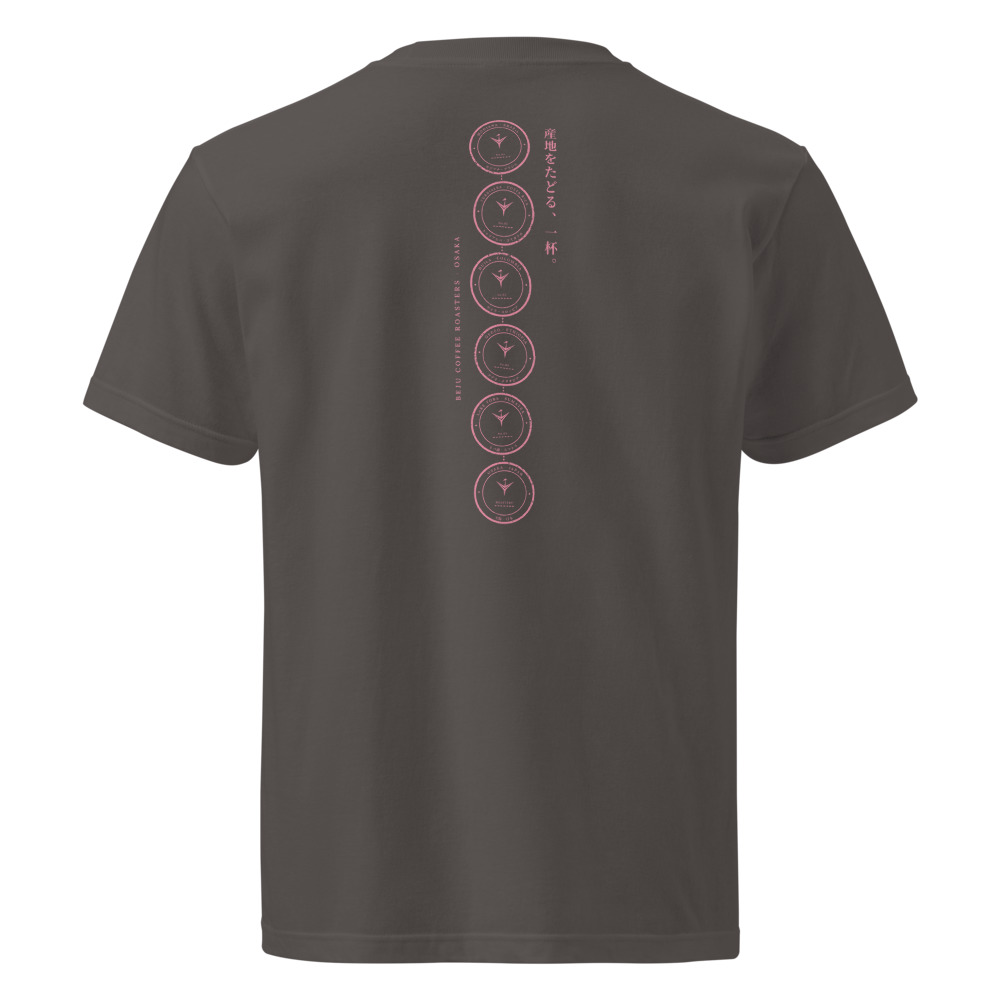
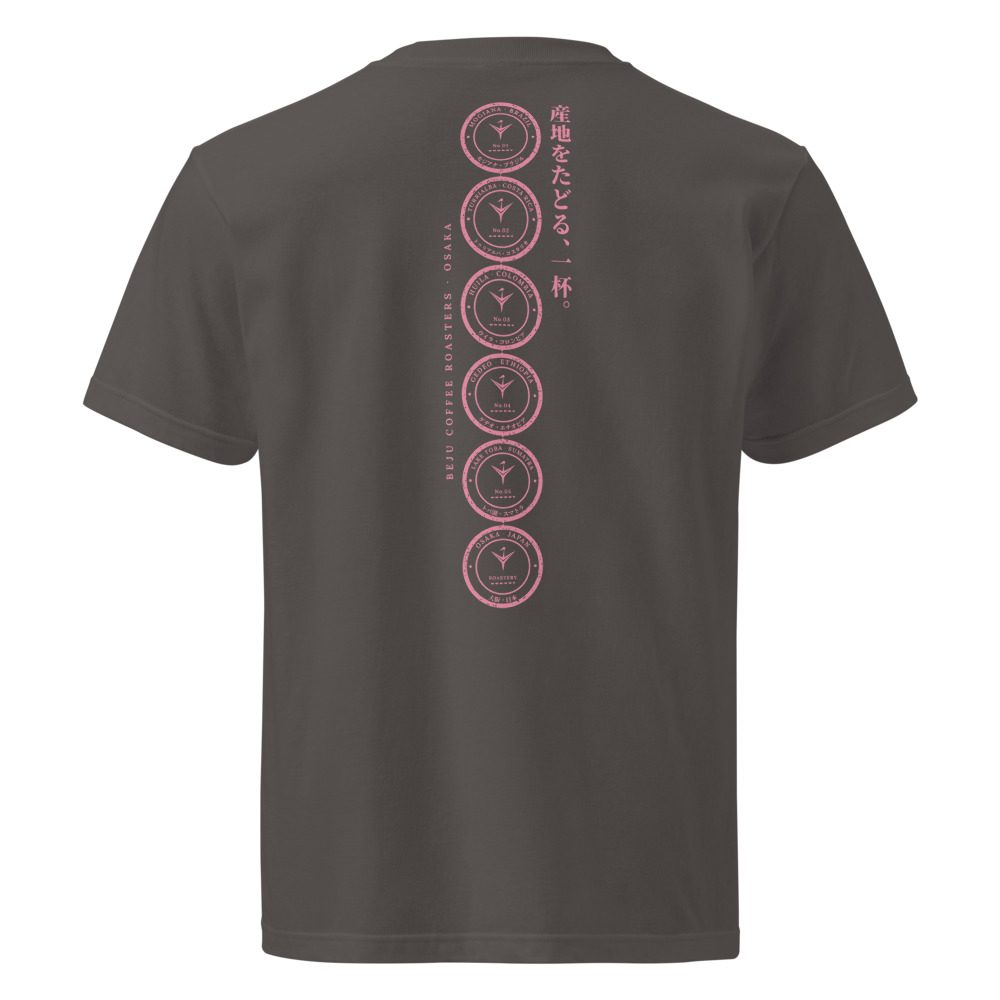
Shop: new back photos for the Passport Tee
Claude-Session: https://claude.ai/code/session_01DATZ3e2wnTa2q48YzpDCKH

Changed region(s): [[0.434, 0.093, 0.589, 0.62]]

diff --git a/beju-site/ja/shop/index.html b/beju-site/ja/shop/index.html
@@ -43,7 +43,7 @@
 <section class="view" id="view-shop">
   <div class="wrap">
     <div class="view-head"><h1>焙煎したてのコーヒー</h1><p>挽き方を選び、1回のみまたは定期便でご注文ください。コーヒーは大阪で焙煎します。価格は1袋あたり(ハウスブレンド250g、シングルオリジン200g)です。</p></div>
-    <div id="shopProducts"><figure class="sphoto banner"><img src="/images/photos/range-sm.webp?v=6d418b1b" srcset="/images/photos/range-sm.webp?v=6d418b1b 800w, /images/photos/range-lg.webp?v=44290ed9 1376w" sizes="(max-width: 1100px) 100vw, 1100px" width="1376" height="768" alt="棚に並んだ4種類のシングルオリジン: コロンビア ピンクウイスキー、コロンビア ラムバレル、エチオピア イルガチェフェ、スマトラ ストロベリー" loading="lazy" decoding="async"><figcaption>※画像はイメージです。実際のパッケージとは異なる場合があります。</figcaption></figure><div class="pgrid"><article class="pcard" style="--tone:var(--accent)"><div class="pc-media"><img class="bagimg" src="/images/bags/casablanca-front.jpg?v=d92e8cfb" width="300" height="496" alt="カサブランカ ブレンド bag" loading="lazy" decoding="async"><span class="pc-photo" aria-hidden="true"><img src="/images/photos/casablanca-sm.webp?v=4effc384" srcset="/images/photos/casablanca-sm.webp?v=4effc384 600w, /images/photos/casablanca-lg.webp?v=c93d02ac 896w" sizes="(max-width: 700px) 50vw, 300px" width="896" height="1200" alt="" loading="lazy" decoding="async"></span><span class="pc-badge">ハウスブレンド</span></div><div class="pc-body"><h3><a class="plink" href="/ja/shop/casablanca/">カサブランカ ブレンド</a></h3><p class="pc-from"><i class="kd" style="background:var(--c-brazil)"></i><i class="kd" style="background:var(--c-colombia)"></i><i class="kd" style="background:var(--c-costarica)"></i><span>ブラジル · コロンビア · コスタリカ</span></p><p class="pc-notes">ココア<span aria-hidden="true"> · </span>ヘーゼルナッツ<span aria-hidden="true"> · </span>柑橘</p><div class="pc-foot"><p class="pc-price"><span class="mono">¥3,000</span> <small>/ 250 g</small></p><button class="pc-add" type="button" data-quick="casablanca" aria-label="カサブランカ ブレンド をカートに入れる"><span aria-hidden="true">+</span></button></div></div></article><article class="pcard" style="--tone:var(--c-colombia)"><div class="pc-media"><img class="bagimg" src="/images/bags/pinkwhiskey-front.jpg?v=35b7f112" width="300" height="496" alt="コロンビア ピンクウイスキー bag" loading="lazy" decoding="async"><span class="pc-photo" aria-hidden="true"><img src="/images/photos/pinkwhiskey-sm.webp?v=81a39107" srcset="/images/photos/pinkwhiskey-sm.webp?v=81a39107 600w, /images/photos/pinkwhiskey-lg.webp?v=f4f59314 896w" sizes="(max-width: 700px) 50vw, 300px" width="896" height="1200" alt="" loading="lazy" decoding="async"></span><span class="pc-badge">シングルオリジン</span></div><div class="pc-body"><h3><a class="plink" href="/ja/shop/pinkwhiskey/">コロンビア ピンクウイスキー</a></h3><p class="pc-from"><i class="kd" style="background:var(--c-colombia)"></i><span>コロンビア · ナチュラル</span></p><p class="pc-notes">赤りんご<span aria-hidden="true"> · </span>バラ<span aria-hidden="true"> · </span>樽のような甘み</p><div class="pc-foot"><p class="pc-price"><span class="mono">¥3,600</span> <small>/ 200 g</small></p><button class="pc-add" type="button" data-quick="pinkwhiskey" aria-label="コロンビア ピンクウイスキー をカートに入れる"><span aria-hidden="true">+</span></button></div></div></article><article class="pcard" style="--tone:var(--c-rum)"><div class="pc-media"><img class="bagimg" src="/images/bags/rumbarrel-front.jpg?v=64df9a49" width="300" height="496" alt="コロンビア ラムバレル bag" loading="lazy" decoding="async"><span class="pc-photo" aria-hidden="true"><img src="/images/photos/rumbarrel-sm.webp?v=05e584c3" srcset="/images/photos/rumbarrel-sm.webp?v=05e584c3 600w, /images/photos/rumbarrel-lg.webp?v=a1dbfabd 896w" sizes="(max-width: 700px) 50vw, 300px" width="896" height="1200" alt="" loading="lazy" decoding="async"></span><span class="pc-badge">シングルオリジン</span></div><div class="pc-body"><h3><a class="plink" href="/ja/shop/rumbarrel/">コロンビア ラムバレル</a></h3><p class="pc-from"><i class="kd" style="background:var(--c-colombia)"></i><span>コロンビア · ウォッシュド</span></p><p class="pc-notes">ダークラム<span aria-hidden="true"> · </span>黒糖<span aria-hidden="true"> · </span>カカオ</p><div class="pc-foot"><p class="pc-price"><span class="mono">¥3,600</span> <small>/ 200 g</small></p><button class="pc-add" type="button" data-quick="rumbarrel" aria-label="コロンビア ラムバレル をカートに入れる"><span aria-hidden="true">+</span></button></div></div></article><article class="pcard" style="--tone:var(--c-ethiopia)"><div class="pc-media"><img class="bagimg" src="/images/bags/yirgacheffe-front.jpg?v=be896bd2" width="300" height="496" alt="エチオピア イルガチェフェ bag" loading="lazy" decoding="async"><span class="pc-photo" aria-hidden="true"><img src="/images/photos/yirgacheffe-sm.webp?v=811ab5fa" srcset="/images/photos/yirgacheffe-sm.webp?v=811ab5fa 600w, /images/photos/yirgacheffe-lg.webp?v=60a03ac5 896w" sizes="(max-width: 700px) 50vw, 300px" width="896" height="1200" alt="" loading="lazy" decoding="async"></span><span class="pc-badge">シングルオリジン</span></div><div class="pc-body"><h3><a class="plink" href="/ja/shop/yirgacheffe/">エチオピア イルガチェフェ</a></h3><p class="pc-from"><i class="kd" style="background:var(--c-ethiopia)"></i><span>エチオピア · ウォッシュド</span></p><p class="pc-notes">ジャスミン<span aria-hidden="true"> · </span>ベルガモット<span aria-hidden="true"> · </span>レモン</p><div class="pc-foot"><p class="pc-price"><span class="mono">¥2,800</span> <small>/ 200 g</small></p><button class="pc-add" type="button" data-quick="yirgacheffe" aria-label="エチオピア イルガチェフェ をカートに入れる"><span aria-hidden="true">+</span></button></div></div></article><article class="pcard" style="--tone:var(--c-indonesia)"><div class="pc-media"><img class="bagimg" src="/images/bags/strawberry-front.jpg?v=70fcd63c" width="300" height="496" alt="スマトラ ストロベリー bag" loading="lazy" decoding="async"><span class="pc-photo" aria-hidden="true"><img src="/images/photos/strawberry-sm.webp?v=ea992a66" srcset="/images/photos/strawberry-sm.webp?v=ea992a66 600w, /images/photos/strawberry-lg.webp?v=76373696 896w" sizes="(max-width: 700px) 50vw, 300px" width="896" height="1200" alt="" loading="lazy" decoding="async"></span><span class="pc-badge">シングルオリジン</span></div><div class="pc-body"><h3><a class="plink" href="/ja/shop/strawberry/">スマトラ ストロベリー</a></h3><p class="pc-from"><i class="kd" style="background:var(--c-indonesia)"></i><span>インドネシア · ストロベリー コファーメント</span></p><p class="pc-notes">いちご<span aria-hidden="true"> · </span>赤いベリー<span aria-hidden="true"> · </span>甘い余韻</p><div class="pc-foot"><p class="pc-price"><span class="mono">¥3,200</span> <small>/ 200 g</small></p><button class="pc-add" type="button" data-quick="strawberry" aria-label="スマトラ ストロベリー をカートに入れる"><span aria-hidden="true">+</span></button></div></div></article></div><h2 class="shop-h" id="merch">グッズ</h2><p class="sub">ベージュ パスポートTシャツ。左胸には、鶴のマークと縦書きの「ベージュ コーヒー ロースターズ」。背中には、モジアナ(ブラジル)、トゥリアルバ(コスタリカ)、ウイラ(コロンビア)、ゲデオ(エチオピア)、トバ湖(スマトラ)、そして大阪の6つの産地スタンプを縦に並べ、「産地をたどる、一杯。」の一文を添えました。5.6オンスのヘビーウェイトコットンを使用しています。</p><div class="mgrid"><article class="mcard" id="m-tee-natural"><div class="mc-media"><img src="/images/merch/passport-tee-natural-front.jpg?v=2121e7a7" width="1000" height="1000" alt="ベージュ パスポートTシャツ(ナチュラル) 前面" loading="lazy" decoding="async"><img src="/images/merch/passport-tee-natural-back.jpg?v=3e0f749f" width="1000" height="1000" alt="ベージュ パスポートTシャツ(ナチュラル) 背面" loading="lazy" decoding="async"></div><div class="mc-body"><h3>ベージュ パスポートTシャツ(ナチュラル)</h3><p class="mc-price"><span class="mono">¥5,500</span> <small>税込・送料込み</small></p><p class="mc-desc">ナチュラル(生成り)のボディに、グリーンのプリント。</p><div class="opts"><div class="field"><label for="tee-natural-size">サイズ</label><select id="tee-natural-size"><option value="">サイズを選択</option><option value="S">S</option><option value="M">M</option><option value="L">L</option><option value="XL">XL</option><option value="2XL">2XL</option><option value="3XL">3XL</option></select><small class="mc-size">日本のユニセックスサイズです。</small></div><div class="buyrow"><div class="qty"><button type="button" data-q="-1" aria-label="減らす">−</button><output id="tee-natural-qty">1</output><button type="button" data-q="1" aria-label="増やす">+</button></div><button class="btn primary" type="button" data-add-merch="tee-natural">カートに入れる</button></div></div></div></article><article class="mcard" id="m-tee-charcoal"><div class="mc-media"><img src="/images/merch/passport-tee-charcoal-front.jpg?v=724ee2fa" width="1000" height="1000" alt="ベージュ パスポートTシャツ(チャコール) 前面" loading="lazy" decoding="async"><img src="/images/merch/passport-tee-charcoal-back.jpg?v=9c4f4beb" width="1000" height="1000" alt="ベージュ パスポートTシャツ(チャコール) 背面" loading="lazy" decoding="async"></div><div class="mc-body"><h3>ベージュ パスポートTシャツ(チャコール)</h3><p class="mc-price"><span class="mono">¥5,500</span> <small>税込・送料込み</small></p><p class="mc-desc">チャコール(温かみのあるダークグレー)のボディに、ライトピンクのプリント。</p><div class="opts"><div class="field"><label for="tee-charcoal-size">サイズ</label><select id="tee-charcoal-size"><option value="">サイズを選択</option><option value="S">S</option><option value="M">M</option><option value="L">L</option><option value="XL">XL</option><option value="2XL">2XL</option><option value="3XL">3XL</option></select><small class="mc-size">日本のユニセックスサイズです。</small></div><div class="buyrow"><div class="qty"><button type="button" data-q="-1" aria-label="減らす">−</button><output id="tee-charcoal-qty">1</output><button type="button" data-q="1" aria-label="増やす">+</button></div><button class="btn primary" type="button" data-add-merch="tee-charcoal">カートに入れる</button></div></div></div></article></div><ul class="mnotes"><li>ご注文をいただいてから日本国内でプリントする受注生産品です。コーヒーとは別便でお届けし、送料は商品価格に含まれています。</li><li>受注生産のため、お客様のご都合による返品・交換はお受けできません。不良品やプリントミスがあった場合は、新しいものとお取り替えいたします。</li><li>プリントと発送のため、お名前・お届け先住所・電話番号・メールアドレスを、プリントと発送を行うPrintful社に提供します。詳しくは<a href="/privacy/">プライバシーについて(英語)</a>をご覧ください。</li></ul></div>
+    <div id="shopProducts"><figure class="sphoto banner"><img src="/images/photos/range-sm.webp?v=6d418b1b" srcset="/images/photos/range-sm.webp?v=6d418b1b 800w, /images/photos/range-lg.webp?v=44290ed9 1376w" sizes="(max-width: 1100px) 100vw, 1100px" width="1376" height="768" alt="棚に並んだ4種類のシングルオリジン: コロンビア ピンクウイスキー、コロンビア ラムバレル、エチオピア イルガチェフェ、スマトラ ストロベリー" loading="lazy" decoding="async"><figcaption>※画像はイメージです。実際のパッケージとは異なる場合があります。</figcaption></figure><div class="pgrid"><article class="pcard" style="--tone:var(--accent)"><div class="pc-media"><img class="bagimg" src="/images/bags/casablanca-front.jpg?v=d92e8cfb" width="300" height="496" alt="カサブランカ ブレンド bag" loading="lazy" decoding="async"><span class="pc-photo" aria-hidden="true"><img src="/images/photos/casablanca-sm.webp?v=4effc384" srcset="/images/photos/casablanca-sm.webp?v=4effc384 600w, /images/photos/casablanca-lg.webp?v=c93d02ac 896w" sizes="(max-width: 700px) 50vw, 300px" width="896" height="1200" alt="" loading="lazy" decoding="async"></span><span class="pc-badge">ハウスブレンド</span></div><div class="pc-body"><h3><a class="plink" href="/ja/shop/casablanca/">カサブランカ ブレンド</a></h3><p class="pc-from"><i class="kd" style="background:var(--c-brazil)"></i><i class="kd" style="background:var(--c-colombia)"></i><i class="kd" style="background:var(--c-costarica)"></i><span>ブラジル · コロンビア · コスタリカ</span></p><p class="pc-notes">ココア<span aria-hidden="true"> · </span>ヘーゼルナッツ<span aria-hidden="true"> · </span>柑橘</p><div class="pc-foot"><p class="pc-price"><span class="mono">¥3,000</span> <small>/ 250 g</small></p><button class="pc-add" type="button" data-quick="casablanca" aria-label="カサブランカ ブレンド をカートに入れる"><span aria-hidden="true">+</span></button></div></div></article><article class="pcard" style="--tone:var(--c-colombia)"><div class="pc-media"><img class="bagimg" src="/images/bags/pinkwhiskey-front.jpg?v=35b7f112" width="300" height="496" alt="コロンビア ピンクウイスキー bag" loading="lazy" decoding="async"><span class="pc-photo" aria-hidden="true"><img src="/images/photos/pinkwhiskey-sm.webp?v=81a39107" srcset="/images/photos/pinkwhiskey-sm.webp?v=81a39107 600w, /images/photos/pinkwhiskey-lg.webp?v=f4f59314 896w" sizes="(max-width: 700px) 50vw, 300px" width="896" height="1200" alt="" loading="lazy" decoding="async"></span><span class="pc-badge">シングルオリジン</span></div><div class="pc-body"><h3><a class="plink" href="/ja/shop/pinkwhiskey/">コロンビア ピンクウイスキー</a></h3><p class="pc-from"><i class="kd" style="background:var(--c-colombia)"></i><span>コロンビア · ナチュラル</span></p><p class="pc-notes">赤りんご<span aria-hidden="true"> · </span>バラ<span aria-hidden="true"> · </span>樽のような甘み</p><div class="pc-foot"><p class="pc-price"><span class="mono">¥3,600</span> <small>/ 200 g</small></p><button class="pc-add" type="button" data-quick="pinkwhiskey" aria-label="コロンビア ピンクウイスキー をカートに入れる"><span aria-hidden="true">+</span></button></div></div></article><article class="pcard" style="--tone:var(--c-rum)"><div class="pc-media"><img class="bagimg" src="/images/bags/rumbarrel-front.jpg?v=64df9a49" width="300" height="496" alt="コロンビア ラムバレル bag" loading="lazy" decoding="async"><span class="pc-photo" aria-hidden="true"><img src="/images/photos/rumbarrel-sm.webp?v=05e584c3" srcset="/images/photos/rumbarrel-sm.webp?v=05e584c3 600w, /images/photos/rumbarrel-lg.webp?v=a1dbfabd 896w" sizes="(max-width: 700px) 50vw, 300px" width="896" height="1200" alt="" loading="lazy" decoding="async"></span><span class="pc-badge">シングルオリジン</span></div><div class="pc-body"><h3><a class="plink" href="/ja/shop/rumbarrel/">コロンビア ラムバレル</a></h3><p class="pc-from"><i class="kd" style="background:var(--c-colombia)"></i><span>コロンビア · ウォッシュド</span></p><p class="pc-notes">ダークラム<span aria-hidden="true"> · </span>黒糖<span aria-hidden="true"> · </span>カカオ</p><div class="pc-foot"><p class="pc-price"><span class="mono">¥3,600</span> <small>/ 200 g</small></p><button class="pc-add" type="button" data-quick="rumbarrel" aria-label="コロンビア ラムバレル をカートに入れる"><span aria-hidden="true">+</span></button></div></div></article><article class="pcard" style="--tone:var(--c-ethiopia)"><div class="pc-media"><img class="bagimg" src="/images/bags/yirgacheffe-front.jpg?v=be896bd2" width="300" height="496" alt="エチオピア イルガチェフェ bag" loading="lazy" decoding="async"><span class="pc-photo" aria-hidden="true"><img src="/images/photos/yirgacheffe-sm.webp?v=811ab5fa" srcset="/images/photos/yirgacheffe-sm.webp?v=811ab5fa 600w, /images/photos/yirgacheffe-lg.webp?v=60a03ac5 896w" sizes="(max-width: 700px) 50vw, 300px" width="896" height="1200" alt="" loading="lazy" decoding="async"></span><span class="pc-badge">シングルオリジン</span></div><div class="pc-body"><h3><a class="plink" href="/ja/shop/yirgacheffe/">エチオピア イルガチェフェ</a></h3><p class="pc-from"><i class="kd" style="background:var(--c-ethiopia)"></i><span>エチオピア · ウォッシュド</span></p><p class="pc-notes">ジャスミン<span aria-hidden="true"> · </span>ベルガモット<span aria-hidden="true"> · </span>レモン</p><div class="pc-foot"><p class="pc-price"><span class="mono">¥2,800</span> <small>/ 200 g</small></p><button class="pc-add" type="button" data-quick="yirgacheffe" aria-label="エチオピア イルガチェフェ をカートに入れる"><span aria-hidden="true">+</span></button></div></div></article><article class="pcard" style="--tone:var(--c-indonesia)"><div class="pc-media"><img class="bagimg" src="/images/bags/strawberry-front.jpg?v=70fcd63c" width="300" height="496" alt="スマトラ ストロベリー bag" loading="lazy" decoding="async"><span class="pc-photo" aria-hidden="true"><img src="/images/photos/strawberry-sm.webp?v=ea992a66" srcset="/images/photos/strawberry-sm.webp?v=ea992a66 600w, /images/photos/strawberry-lg.webp?v=76373696 896w" sizes="(max-width: 700px) 50vw, 300px" width="896" height="1200" alt="" loading="lazy" decoding="async"></span><span class="pc-badge">シングルオリジン</span></div><div class="pc-body"><h3><a class="plink" href="/ja/shop/strawberry/">スマトラ ストロベリー</a></h3><p class="pc-from"><i class="kd" style="background:var(--c-indonesia)"></i><span>インドネシア · ストロベリー コファーメント</span></p><p class="pc-notes">いちご<span aria-hidden="true"> · </span>赤いベリー<span aria-hidden="true"> · </span>甘い余韻</p><div class="pc-foot"><p class="pc-price"><span class="mono">¥3,200</span> <small>/ 200 g</small></p><button class="pc-add" type="button" data-quick="strawberry" aria-label="スマトラ ストロベリー をカートに入れる"><span aria-hidden="true">+</span></button></div></div></article></div><h2 class="shop-h" id="merch">グッズ</h2><p class="sub">ベージュ パスポートTシャツ。左胸には、鶴のマークと縦書きの「ベージュ コーヒー ロースターズ」。背中には、モジアナ(ブラジル)、トゥリアルバ(コスタリカ)、ウイラ(コロンビア)、ゲデオ(エチオピア)、トバ湖(スマトラ)、そして大阪の6つの産地スタンプを縦に並べ、「産地をたどる、一杯。」の一文を添えました。5.6オンスのヘビーウェイトコットンを使用しています。</p><div class="mgrid"><article class="mcard" id="m-tee-natural"><div class="mc-media"><img src="/images/merch/passport-tee-natural-front.jpg?v=2121e7a7" width="1000" height="1000" alt="ベージュ パスポートTシャツ(ナチュラル) 前面" loading="lazy" decoding="async"><img src="/images/merch/passport-tee-natural-back.jpg?v=88962ae0" width="1000" height="1000" alt="ベージュ パスポートTシャツ(ナチュラル) 背面" loading="lazy" decoding="async"></div><div class="mc-body"><h3>ベージュ パスポートTシャツ(ナチュラル)</h3><p class="mc-price"><span class="mono">¥5,500</span> <small>税込・送料込み</small></p><p class="mc-desc">ナチュラル(生成り)のボディに、グリーンのプリント。</p><div class="opts"><div class="field"><label for="tee-natural-size">サイズ</label><select id="tee-natural-size"><option value="">サイズを選択</option><option value="S">S</option><option value="M">M</option><option value="L">L</option><option value="XL">XL</option><option value="2XL">2XL</option><option value="3XL">3XL</option></select><small class="mc-size">日本のユニセックスサイズです。</small></div><div class="buyrow"><div class="qty"><button type="button" data-q="-1" aria-label="減らす">−</button><output id="tee-natural-qty">1</output><button type="button" data-q="1" aria-label="増やす">+</button></div><button class="btn primary" type="button" data-add-merch="tee-natural">カートに入れる</button></div></div></div></article><article class="mcard" id="m-tee-charcoal"><div class="mc-media"><img src="/images/merch/passport-tee-charcoal-front.jpg?v=724ee2fa" width="1000" height="1000" alt="ベージュ パスポートTシャツ(チャコール) 前面" loading="lazy" decoding="async"><img src="/images/merch/passport-tee-charcoal-back.jpg?v=ab16e4bf" width="1000" height="1000" alt="ベージュ パスポートTシャツ(チャコール) 背面" loading="lazy" decoding="async"></div><div class="mc-body"><h3>ベージュ パスポートTシャツ(チャコール)</h3><p class="mc-price"><span class="mono">¥5,500</span> <small>税込・送料込み</small></p><p class="mc-desc">チャコール(温かみのあるダークグレー)のボディに、ライトピンクのプリント。</p><div class="opts"><div class="field"><label for="tee-charcoal-size">サイズ</label><select id="tee-charcoal-size"><option value="">サイズを選択</option><option value="S">S</option><option value="M">M</option><option value="L">L</option><option value="XL">XL</option><option value="2XL">2XL</option><option value="3XL">3XL</option></select><small class="mc-size">日本のユニセックスサイズです。</small></div><div class="buyrow"><div class="qty"><button type="button" data-q="-1" aria-label="減らす">−</button><output id="tee-charcoal-qty">1</output><button type="button" data-q="1" aria-label="増やす">+</button></div><button class="btn primary" type="button" data-add-merch="tee-charcoal">カートに入れる</button></div></div></div></article></div><ul class="mnotes"><li>ご注文をいただいてから日本国内でプリントする受注生産品です。コーヒーとは別便でお届けし、送料は商品価格に含まれています。</li><li>受注生産のため、お客様のご都合による返品・交換はお受けできません。不良品やプリントミスがあった場合は、新しいものとお取り替えいたします。</li><li>プリントと発送のため、お名前・お届け先住所・電話番号・メールアドレスを、プリントと発送を行うPrintful社に提供します。詳しくは<a href="/privacy/">プライバシーについて(英語)</a>をご覧ください。</li></ul></div>
     <p class="note" style="margin-top:2rem;max-width:44rem">送料とお届け日数は、住所を入力するとチェックアウトで計算されます。</p>
     <div class="crosslinks"><a class="crosslink" href="/ja/origins/"><b>育った場所を見る</b><span>すべての産地を、標高・品種・精製方法とともにマップで</span></a><a class="crosslink" href="/ja/wholesale/"><b>カフェを運営していますか？</b><span>オリジナルブレンドとバリスタトレーニング</span></a></div>
   </div>
@@ -89,7 +89,7 @@
 <aside id="drawer" role="dialog" aria-modal="true" aria-label="カート" hidden=""></aside>
 <div id="toast" role="status" hidden=""></div>
 
-<script src="/assets/app.11b4635bf5.js" defer></script>
+<script src="/assets/app.43b5589063.js" defer></script>
 
 
 </body></html>

diff --git a/beju-site/shop/index.html b/beju-site/shop/index.html
@@ -43,7 +43,7 @@
 <section class="view" id="view-shop">
   <div class="wrap">
     <div class="view-head"><h1>Fresh roasted coffee</h1><p>Choose a grind, order once or on repeat, and your coffee is roasted in Osaka. Prices are per bag: 250 g for the house blend, 200 g for single origins.</p></div>
-    <div id="shopProducts"><figure class="sphoto banner"><img src="/images/photos/range-sm.webp?v=6d418b1b" srcset="/images/photos/range-sm.webp?v=6d418b1b 800w, /images/photos/range-lg.webp?v=44290ed9 1376w" sizes="(max-width: 1100px) 100vw, 1100px" width="1376" height="768" alt="Our four single-origin coffees on a shelf: Colombia Pink Whiskey, Colombia Rum Barrel, Ethiopia Yirgacheffe and Sumatra Strawberry" loading="lazy" decoding="async"><figcaption>Styled image. Actual packaging may differ.</figcaption></figure><div class="pgrid"><article class="pcard" style="--tone:var(--accent)"><div class="pc-media"><img class="bagimg" src="/images/bags/casablanca-front.jpg?v=d92e8cfb" width="300" height="496" alt="Casablanca Blend bag" loading="lazy" decoding="async"><span class="pc-photo" aria-hidden="true"><img src="/images/photos/casablanca-sm.webp?v=4effc384" srcset="/images/photos/casablanca-sm.webp?v=4effc384 600w, /images/photos/casablanca-lg.webp?v=c93d02ac 896w" sizes="(max-width: 700px) 50vw, 300px" width="896" height="1200" alt="" loading="lazy" decoding="async"></span><span class="pc-badge">House blend</span></div><div class="pc-body"><h3><a class="plink" href="/shop/casablanca/">Casablanca Blend</a></h3><p class="pc-from"><i class="kd" style="background:var(--c-brazil)"></i><i class="kd" style="background:var(--c-colombia)"></i><i class="kd" style="background:var(--c-costarica)"></i><span>Brazil · Colombia · Costa Rica</span></p><p class="pc-notes">Cocoa<span aria-hidden="true"> · </span>Hazelnut<span aria-hidden="true"> · </span>Citrus fruit</p><div class="pc-foot"><p class="pc-price"><span class="mono">¥3,000</span> <small>/ 250 g</small></p><button class="pc-add" type="button" data-quick="casablanca" aria-label="Add Casablanca Blend to cart"><span aria-hidden="true">+</span></button></div></div></article><article class="pcard" style="--tone:var(--c-colombia)"><div class="pc-media"><img class="bagimg" src="/images/bags/pinkwhiskey-front.jpg?v=35b7f112" width="300" height="496" alt="Colombia Pink Whiskey bag" loading="lazy" decoding="async"><span class="pc-photo" aria-hidden="true"><img src="/images/photos/pinkwhiskey-sm.webp?v=81a39107" srcset="/images/photos/pinkwhiskey-sm.webp?v=81a39107 600w, /images/photos/pinkwhiskey-lg.webp?v=f4f59314 896w" sizes="(max-width: 700px) 50vw, 300px" width="896" height="1200" alt="" loading="lazy" decoding="async"></span><span class="pc-badge">Single origin</span></div><div class="pc-body"><h3><a class="plink" href="/shop/pinkwhiskey/">Colombia Pink Whiskey</a></h3><p class="pc-from"><i class="kd" style="background:var(--c-colombia)"></i><span>Colombia · Natural</span></p><p class="pc-notes">Red apple<span aria-hidden="true"> · </span>Rose<span aria-hidden="true"> · </span>Barrel sweetness</p><div class="pc-foot"><p class="pc-price"><span class="mono">¥3,600</span> <small>/ 200 g</small></p><button class="pc-add" type="button" data-quick="pinkwhiskey" aria-label="Add Colombia Pink Whiskey to cart"><span aria-hidden="true">+</span></button></div></div></article><article class="pcard" style="--tone:var(--c-rum)"><div class="pc-media"><img class="bagimg" src="/images/bags/rumbarrel-front.jpg?v=64df9a49" width="300" height="496" alt="Colombia Rum Barrel bag" loading="lazy" decoding="async"><span class="pc-photo" aria-hidden="true"><img src="/images/photos/rumbarrel-sm.webp?v=05e584c3" srcset="/images/photos/rumbarrel-sm.webp?v=05e584c3 600w, /images/photos/rumbarrel-lg.webp?v=a1dbfabd 896w" sizes="(max-width: 700px) 50vw, 300px" width="896" height="1200" alt="" loading="lazy" decoding="async"></span><span class="pc-badge">Single origin</span></div><div class="pc-body"><h3><a class="plink" href="/shop/rumbarrel/">Colombia Rum Barrel</a></h3><p class="pc-from"><i class="kd" style="background:var(--c-colombia)"></i><span>Colombia · Washed</span></p><p class="pc-notes">Dark rum<span aria-hidden="true"> · </span>Brown sugar<span aria-hidden="true"> · </span>Cacao</p><div class="pc-foot"><p class="pc-price"><span class="mono">¥3,600</span> <small>/ 200 g</small></p><button class="pc-add" type="button" data-quick="rumbarrel" aria-label="Add Colombia Rum Barrel to cart"><span aria-hidden="true">+</span></button></div></div></article><article class="pcard" style="--tone:var(--c-ethiopia)"><div class="pc-media"><img class="bagimg" src="/images/bags/yirgacheffe-front.jpg?v=be896bd2" width="300" height="496" alt="Ethiopia Yirgacheffe bag" loading="lazy" decoding="async"><span class="pc-photo" aria-hidden="true"><img src="/images/photos/yirgacheffe-sm.webp?v=811ab5fa" srcset="/images/photos/yirgacheffe-sm.webp?v=811ab5fa 600w, /images/photos/yirgacheffe-lg.webp?v=60a03ac5 896w" sizes="(max-width: 700px) 50vw, 300px" width="896" height="1200" alt="" loading="lazy" decoding="async"></span><span class="pc-badge">Single origin</span></div><div class="pc-body"><h3><a class="plink" href="/shop/yirgacheffe/">Ethiopia Yirgacheffe</a></h3><p class="pc-from"><i class="kd" style="background:var(--c-ethiopia)"></i><span>Ethiopia · Washed</span></p><p class="pc-notes">Jasmine<span aria-hidden="true"> · </span>Bergamot<span aria-hidden="true"> · </span>Lemon</p><div class="pc-foot"><p class="pc-price"><span class="mono">¥2,800</span> <small>/ 200 g</small></p><button class="pc-add" type="button" data-quick="yirgacheffe" aria-label="Add Ethiopia Yirgacheffe to cart"><span aria-hidden="true">+</span></button></div></div></article><article class="pcard" style="--tone:var(--c-indonesia)"><div class="pc-media"><img class="bagimg" src="/images/bags/strawberry-front.jpg?v=70fcd63c" width="300" height="496" alt="Sumatra Strawberry bag" loading="lazy" decoding="async"><span class="pc-photo" aria-hidden="true"><img src="/images/photos/strawberry-sm.webp?v=ea992a66" srcset="/images/photos/strawberry-sm.webp?v=ea992a66 600w, /images/photos/strawberry-lg.webp?v=76373696 896w" sizes="(max-width: 700px) 50vw, 300px" width="896" height="1200" alt="" loading="lazy" decoding="async"></span><span class="pc-badge">Single origin</span></div><div class="pc-body"><h3><a class="plink" href="/shop/strawberry/">Sumatra Strawberry</a></h3><p class="pc-from"><i class="kd" style="background:var(--c-indonesia)"></i><span>Indonesia · Strawberry co-ferment</span></p><p class="pc-notes">Strawberry<span aria-hidden="true"> · </span>Red berries<span aria-hidden="true"> · </span>Sweet finish</p><div class="pc-foot"><p class="pc-price"><span class="mono">¥3,200</span> <small>/ 200 g</small></p><button class="pc-add" type="button" data-quick="strawberry" aria-label="Add Sumatra Strawberry to cart"><span aria-hidden="true">+</span></button></div></div></article></div><h2 class="shop-h" id="merch">Merchandise</h2><p class="sub">The Beju Passport Tee. On the left chest, our crane with ベージュ コーヒー ロースターズ set vertically. Down the back, six origin stamps in a column: Mogiana in Brazil, Turrialba in Costa Rica, Huila in Colombia, Gedeo in Ethiopia, Lake Toba in Sumatra, and Osaka, with the line 産地をたどる、一杯。 Printed on a 5.6 oz heavyweight cotton shirt.</p><div class="mgrid"><article class="mcard" id="m-tee-natural"><div class="mc-media"><img src="/images/merch/passport-tee-natural-front.jpg?v=2121e7a7" width="1000" height="1000" alt="Beju Passport Tee, Natural, front" loading="lazy" decoding="async"><img src="/images/merch/passport-tee-natural-back.jpg?v=3e0f749f" width="1000" height="1000" alt="Beju Passport Tee, Natural, back" loading="lazy" decoding="async"></div><div class="mc-body"><h3>Beju Passport Tee, Natural</h3><p class="mc-price"><span class="mono">¥5,500</span> <small>tax and delivery included</small></p><p class="mc-desc">Crane-green print on a natural (cream) shirt.</p><div class="opts"><div class="field"><label for="tee-natural-size">Size</label><select id="tee-natural-size"><option value="">Choose a size</option><option value="S">S</option><option value="M">M</option><option value="L">L</option><option value="XL">XL</option><option value="2XL">2XL</option><option value="3XL">3XL</option></select><small class="mc-size">Japanese unisex sizing.</small></div><div class="buyrow"><div class="qty"><button type="button" data-q="-1" aria-label="Fewer">−</button><output id="tee-natural-qty">1</output><button type="button" data-q="1" aria-label="More">+</button></div><button class="btn primary" type="button" data-add-merch="tee-natural">Add to cart</button></div></div></div></article><article class="mcard" id="m-tee-charcoal"><div class="mc-media"><img src="/images/merch/passport-tee-charcoal-front.jpg?v=724ee2fa" width="1000" height="1000" alt="Beju Passport Tee, Charcoal, front" loading="lazy" decoding="async"><img src="/images/merch/passport-tee-charcoal-back.jpg?v=9c4f4beb" width="1000" height="1000" alt="Beju Passport Tee, Charcoal, back" loading="lazy" decoding="async"></div><div class="mc-body"><h3>Beju Passport Tee, Charcoal</h3><p class="mc-price"><span class="mono">¥5,500</span> <small>tax and delivery included</small></p><p class="mc-desc">Light-pink print on a charcoal (warm dark grey) shirt.</p><div class="opts"><div class="field"><label for="tee-charcoal-size">Size</label><select id="tee-charcoal-size"><option value="">Choose a size</option><option value="S">S</option><option value="M">M</option><option value="L">L</option><option value="XL">XL</option><option value="2XL">2XL</option><option value="3XL">3XL</option></select><small class="mc-size">Japanese unisex sizing.</small></div><div class="buyrow"><div class="qty"><button type="button" data-q="-1" aria-label="Fewer">−</button><output id="tee-charcoal-qty">1</output><button type="button" data-q="1" aria-label="More">+</button></div><button class="btn primary" type="button" data-add-merch="tee-charcoal">Add to cart</button></div></div></div></article></div><ul class="mnotes"><li>Printed to order in Japan and sent separately from your coffee. Delivery is included in the price.</li><li>Made-to-order items can't be returned for a change of mind. If yours arrives faulty or misprinted, we'll replace it.</li><li>To print and ship your order, your name, delivery address, phone number and email are passed to Printful, which prints and ships it. See our <a href="/privacy/">privacy page</a>.</li></ul></div>
+    <div id="shopProducts"><figure class="sphoto banner"><img src="/images/photos/range-sm.webp?v=6d418b1b" srcset="/images/photos/range-sm.webp?v=6d418b1b 800w, /images/photos/range-lg.webp?v=44290ed9 1376w" sizes="(max-width: 1100px) 100vw, 1100px" width="1376" height="768" alt="Our four single-origin coffees on a shelf: Colombia Pink Whiskey, Colombia Rum Barrel, Ethiopia Yirgacheffe and Sumatra Strawberry" loading="lazy" decoding="async"><figcaption>Styled image. Actual packaging may differ.</figcaption></figure><div class="pgrid"><article class="pcard" style="--tone:var(--accent)"><div class="pc-media"><img class="bagimg" src="/images/bags/casablanca-front.jpg?v=d92e8cfb" width="300" height="496" alt="Casablanca Blend bag" loading="lazy" decoding="async"><span class="pc-photo" aria-hidden="true"><img src="/images/photos/casablanca-sm.webp?v=4effc384" srcset="/images/photos/casablanca-sm.webp?v=4effc384 600w, /images/photos/casablanca-lg.webp?v=c93d02ac 896w" sizes="(max-width: 700px) 50vw, 300px" width="896" height="1200" alt="" loading="lazy" decoding="async"></span><span class="pc-badge">House blend</span></div><div class="pc-body"><h3><a class="plink" href="/shop/casablanca/">Casablanca Blend</a></h3><p class="pc-from"><i class="kd" style="background:var(--c-brazil)"></i><i class="kd" style="background:var(--c-colombia)"></i><i class="kd" style="background:var(--c-costarica)"></i><span>Brazil · Colombia · Costa Rica</span></p><p class="pc-notes">Cocoa<span aria-hidden="true"> · </span>Hazelnut<span aria-hidden="true"> · </span>Citrus fruit</p><div class="pc-foot"><p class="pc-price"><span class="mono">¥3,000</span> <small>/ 250 g</small></p><button class="pc-add" type="button" data-quick="casablanca" aria-label="Add Casablanca Blend to cart"><span aria-hidden="true">+</span></button></div></div></article><article class="pcard" style="--tone:var(--c-colombia)"><div class="pc-media"><img class="bagimg" src="/images/bags/pinkwhiskey-front.jpg?v=35b7f112" width="300" height="496" alt="Colombia Pink Whiskey bag" loading="lazy" decoding="async"><span class="pc-photo" aria-hidden="true"><img src="/images/photos/pinkwhiskey-sm.webp?v=81a39107" srcset="/images/photos/pinkwhiskey-sm.webp?v=81a39107 600w, /images/photos/pinkwhiskey-lg.webp?v=f4f59314 896w" sizes="(max-width: 700px) 50vw, 300px" width="896" height="1200" alt="" loading="lazy" decoding="async"></span><span class="pc-badge">Single origin</span></div><div class="pc-body"><h3><a class="plink" href="/shop/pinkwhiskey/">Colombia Pink Whiskey</a></h3><p class="pc-from"><i class="kd" style="background:var(--c-colombia)"></i><span>Colombia · Natural</span></p><p class="pc-notes">Red apple<span aria-hidden="true"> · </span>Rose<span aria-hidden="true"> · </span>Barrel sweetness</p><div class="pc-foot"><p class="pc-price"><span class="mono">¥3,600</span> <small>/ 200 g</small></p><button class="pc-add" type="button" data-quick="pinkwhiskey" aria-label="Add Colombia Pink Whiskey to cart"><span aria-hidden="true">+</span></button></div></div></article><article class="pcard" style="--tone:var(--c-rum)"><div class="pc-media"><img class="bagimg" src="/images/bags/rumbarrel-front.jpg?v=64df9a49" width="300" height="496" alt="Colombia Rum Barrel bag" loading="lazy" decoding="async"><span class="pc-photo" aria-hidden="true"><img src="/images/photos/rumbarrel-sm.webp?v=05e584c3" srcset="/images/photos/rumbarrel-sm.webp?v=05e584c3 600w, /images/photos/rumbarrel-lg.webp?v=a1dbfabd 896w" sizes="(max-width: 700px) 50vw, 300px" width="896" height="1200" alt="" loading="lazy" decoding="async"></span><span class="pc-badge">Single origin</span></div><div class="pc-body"><h3><a class="plink" href="/shop/rumbarrel/">Colombia Rum Barrel</a></h3><p class="pc-from"><i class="kd" style="background:var(--c-colombia)"></i><span>Colombia · Washed</span></p><p class="pc-notes">Dark rum<span aria-hidden="true"> · </span>Brown sugar<span aria-hidden="true"> · </span>Cacao</p><div class="pc-foot"><p class="pc-price"><span class="mono">¥3,600</span> <small>/ 200 g</small></p><button class="pc-add" type="button" data-quick="rumbarrel" aria-label="Add Colombia Rum Barrel to cart"><span aria-hidden="true">+</span></button></div></div></article><article class="pcard" style="--tone:var(--c-ethiopia)"><div class="pc-media"><img class="bagimg" src="/images/bags/yirgacheffe-front.jpg?v=be896bd2" width="300" height="496" alt="Ethiopia Yirgacheffe bag" loading="lazy" decoding="async"><span class="pc-photo" aria-hidden="true"><img src="/images/photos/yirgacheffe-sm.webp?v=811ab5fa" srcset="/images/photos/yirgacheffe-sm.webp?v=811ab5fa 600w, /images/photos/yirgacheffe-lg.webp?v=60a03ac5 896w" sizes="(max-width: 700px) 50vw, 300px" width="896" height="1200" alt="" loading="lazy" decoding="async"></span><span class="pc-badge">Single origin</span></div><div class="pc-body"><h3><a class="plink" href="/shop/yirgacheffe/">Ethiopia Yirgacheffe</a></h3><p class="pc-from"><i class="kd" style="background:var(--c-ethiopia)"></i><span>Ethiopia · Washed</span></p><p class="pc-notes">Jasmine<span aria-hidden="true"> · </span>Bergamot<span aria-hidden="true"> · </span>Lemon</p><div class="pc-foot"><p class="pc-price"><span class="mono">¥2,800</span> <small>/ 200 g</small></p><button class="pc-add" type="button" data-quick="yirgacheffe" aria-label="Add Ethiopia Yirgacheffe to cart"><span aria-hidden="true">+</span></button></div></div></article><article class="pcard" style="--tone:var(--c-indonesia)"><div class="pc-media"><img class="bagimg" src="/images/bags/strawberry-front.jpg?v=70fcd63c" width="300" height="496" alt="Sumatra Strawberry bag" loading="lazy" decoding="async"><span class="pc-photo" aria-hidden="true"><img src="/images/photos/strawberry-sm.webp?v=ea992a66" srcset="/images/photos/strawberry-sm.webp?v=ea992a66 600w, /images/photos/strawberry-lg.webp?v=76373696 896w" sizes="(max-width: 700px) 50vw, 300px" width="896" height="1200" alt="" loading="lazy" decoding="async"></span><span class="pc-badge">Single origin</span></div><div class="pc-body"><h3><a class="plink" href="/shop/strawberry/">Sumatra Strawberry</a></h3><p class="pc-from"><i class="kd" style="background:var(--c-indonesia)"></i><span>Indonesia · Strawberry co-ferment</span></p><p class="pc-notes">Strawberry<span aria-hidden="true"> · </span>Red berries<span aria-hidden="true"> · </span>Sweet finish</p><div class="pc-foot"><p class="pc-price"><span class="mono">¥3,200</span> <small>/ 200 g</small></p><button class="pc-add" type="button" data-quick="strawberry" aria-label="Add Sumatra Strawberry to cart"><span aria-hidden="true">+</span></button></div></div></article></div><h2 class="shop-h" id="merch">Merchandise</h2><p class="sub">The Beju Passport Tee. On the left chest, our crane with ベージュ コーヒー ロースターズ set vertically. Down the back, six origin stamps in a column: Mogiana in Brazil, Turrialba in Costa Rica, Huila in Colombia, Gedeo in Ethiopia, Lake Toba in Sumatra, and Osaka, with the line 産地をたどる、一杯。 Printed on a 5.6 oz heavyweight cotton shirt.</p><div class="mgrid"><article class="mcard" id="m-tee-natural"><div class="mc-media"><img src="/images/merch/passport-tee-natural-front.jpg?v=2121e7a7" width="1000" height="1000" alt="Beju Passport Tee, Natural, front" loading="lazy" decoding="async"><img src="/images/merch/passport-tee-natural-back.jpg?v=88962ae0" width="1000" height="1000" alt="Beju Passport Tee, Natural, back" loading="lazy" decoding="async"></div><div class="mc-body"><h3>Beju Passport Tee, Natural</h3><p class="mc-price"><span class="mono">¥5,500</span> <small>tax and delivery included</small></p><p class="mc-desc">Crane-green print on a natural (cream) shirt.</p><div class="opts"><div class="field"><label for="tee-natural-size">Size</label><select id="tee-natural-size"><option value="">Choose a size</option><option value="S">S</option><option value="M">M</option><option value="L">L</option><option value="XL">XL</option><option value="2XL">2XL</option><option value="3XL">3XL</option></select><small class="mc-size">Japanese unisex sizing.</small></div><div class="buyrow"><div class="qty"><button type="button" data-q="-1" aria-label="Fewer">−</button><output id="tee-natural-qty">1</output><button type="button" data-q="1" aria-label="More">+</button></div><button class="btn primary" type="button" data-add-merch="tee-natural">Add to cart</button></div></div></div></article><article class="mcard" id="m-tee-charcoal"><div class="mc-media"><img src="/images/merch/passport-tee-charcoal-front.jpg?v=724ee2fa" width="1000" height="1000" alt="Beju Passport Tee, Charcoal, front" loading="lazy" decoding="async"><img src="/images/merch/passport-tee-charcoal-back.jpg?v=ab16e4bf" width="1000" height="1000" alt="Beju Passport Tee, Charcoal, back" loading="lazy" decoding="async"></div><div class="mc-body"><h3>Beju Passport Tee, Charcoal</h3><p class="mc-price"><span class="mono">¥5,500</span> <small>tax and delivery included</small></p><p class="mc-desc">Light-pink print on a charcoal (warm dark grey) shirt.</p><div class="opts"><div class="field"><label for="tee-charcoal-size">Size</label><select id="tee-charcoal-size"><option value="">Choose a size</option><option value="S">S</option><option value="M">M</option><option value="L">L</option><option value="XL">XL</option><option value="2XL">2XL</option><option value="3XL">3XL</option></select><small class="mc-size">Japanese unisex sizing.</small></div><div class="buyrow"><div class="qty"><button type="button" data-q="-1" aria-label="Fewer">−</button><output id="tee-charcoal-qty">1</output><button type="button" data-q="1" aria-label="More">+</button></div><button class="btn primary" type="button" data-add-merch="tee-charcoal">Add to cart</button></div></div></div></article></div><ul class="mnotes"><li>Printed to order in Japan and sent separately from your coffee. Delivery is included in the price.</li><li>Made-to-order items can't be returned for a change of mind. If yours arrives faulty or misprinted, we'll replace it.</li><li>To print and ship your order, your name, delivery address, phone number and email are passed to Printful, which prints and ships it. See our <a href="/privacy/">privacy page</a>.</li></ul></div>
     <p class="note" style="margin-top:2rem;max-width:44rem">Shipping cost and delivery times are calculated at checkout once your address is entered.</p>
     <div class="crosslinks"><a class="crosslink" href="/origins/"><b>See where it grows</b><span>Every origin on the map, with altitude, variety and process</span></a><a class="crosslink" href="/wholesale/"><b>Running a café?</b><span>Custom blends and barista training</span></a></div>
   </div>
@@ -89,7 +89,7 @@
 <aside id="drawer" role="dialog" aria-modal="true" aria-label="Your cart" hidden=""></aside>
 <div id="toast" role="status" hidden=""></div>
 
-<script src="/assets/app.11b4635bf5.js" defer></script>
+<script src="/assets/app.43b5589063.js" defer></script>
 
 
 </body></html>

diff --git a/beju-site/assets/app.43b5589063.js b/beju-site/assets/app.43b5589063.js
@@ -72,8 +72,8 @@
      the cart line carries the size as "option". netlify/lib/catalog.json holds the same ids, prices and sizes, and charges from them. */
   var TEE_SIZES = ["S", "M", "L", "XL", "2XL", "3XL"];
   var MERCH = [
-    { id: "tee-natural", name: "Beju Passport Tee, Natural", jp: "ベージュ パスポートTシャツ(ナチュラル)", price: 5500, sizes: TEE_SIZES, colour: ["Crane-green print on a natural (cream) shirt.", "ナチュラル(生成り)のボディに、グリーンのプリント。"], img: { front: "/images/merch/passport-tee-natural-front.jpg?v=2121e7a7", back: "/images/merch/passport-tee-natural-back.jpg?v=3e0f749f" } },
-    { id: "tee-charcoal", name: "Beju Passport Tee, Charcoal", jp: "ベージュ パスポートTシャツ(チャコール)", price: 5500, sizes: TEE_SIZES, colour: ["Light-pink print on a charcoal (warm dark grey) shirt.", "チャコール(温かみのあるダークグレー)のボディに、ライトピンクのプリント。"], img: { front: "/images/merch/passport-tee-charcoal-front.jpg?v=724ee2fa", back: "/images/merch/passport-tee-charcoal-back.jpg?v=9c4f4beb" } }
+    { id: "tee-natural", name: "Beju Passport Tee, Natural", jp: "ベージュ パスポートTシャツ(ナチュラル)", price: 5500, sizes: TEE_SIZES, colour: ["Crane-green print on a natural (cream) shirt.", "ナチュラル(生成り)のボディに、グリーンのプリント。"], img: { front: "/images/merch/passport-tee-natural-front.jpg?v=2121e7a7", back: "/images/merch/passport-tee-natural-back.jpg?v=88962ae0" } },
+    { id: "tee-charcoal", name: "Beju Passport Tee, Charcoal", jp: "ベージュ パスポートTシャツ(チャコール)", price: 5500, sizes: TEE_SIZES, colour: ["Light-pink print on a charcoal (warm dark grey) shirt.", "チャコール(温かみのあるダークグレー)のボディに、ライトピンクのプリント。"], img: { front: "/images/merch/passport-tee-charcoal-front.jpg?v=724ee2fa", back: "/images/merch/passport-tee-charcoal-back.jpg?v=ab16e4bf" } }
   ];
   function lotFor(p, oid) { var lid = p.lots && p.lots[oid]; return lid ? lotById(lid) : ORIGINS[oid].lots[0]; }
   /* ---------- Language (English / 日本語) ---------- */

diff --git a/beju-site/contact/index.html b/beju-site/contact/index.html
@@ -107,7 +107,7 @@
 <aside id="drawer" role="dialog" aria-modal="true" aria-label="Your cart" hidden=""></aside>
 <div id="toast" role="status" hidden=""></div>
 
-<script src="/assets/app.11b4635bf5.js" defer></script>
+<script src="/assets/app.43b5589063.js" defer></script>
 
 
 </body></html>

diff --git a/beju-site/index.html b/beju-site/index.html
@@ -120,7 +120,7 @@
 <aside id="drawer" role="dialog" aria-modal="true" aria-label="Your cart" hidden=""></aside>
 <div id="toast" role="status" hidden=""></div>
 
-<script src="/assets/app.11b4635bf5.js" defer></script>
+<script src="/assets/app.43b5589063.js" defer></script>
 
 
 </body></html>

diff --git a/beju-site/ja/contact/index.html b/beju-site/ja/contact/index.html
@@ -107,7 +107,7 @@
 <aside id="drawer" role="dialog" aria-modal="true" aria-label="カート" hidden=""></aside>
 <div id="toast" role="status" hidden=""></div>
 
-<script src="/assets/app.11b4635bf5.js" defer></script>
+<script src="/assets/app.43b5589063.js" defer></script>
 
 
 </body></html>

diff --git a/beju-site/ja/index.html b/beju-site/ja/index.html
@@ -120,7 +120,7 @@
 <aside id="drawer" role="dialog" aria-modal="true" aria-label="カート" hidden=""></aside>
 <div id="toast" role="status" hidden=""></div>
 
-<script src="/assets/app.11b4635bf5.js" defer></script>
+<script src="/assets/app.43b5589063.js" defer></script>
 
 
 </body></html>

diff --git a/beju-site/ja/journal/coffee-processing/index.html b/beju-site/ja/journal/coffee-processing/index.html
@@ -82,7 +82,7 @@
 <aside id="drawer" role="dialog" aria-modal="true" aria-label="カート" hidden=""></aside>
 <div id="toast" role="status" hidden=""></div>
 
-<script src="/assets/app.11b4635bf5.js" defer></script>
+<script src="/assets/app.43b5589063.js" defer></script>
 
 
 </body></html>

diff --git a/beju-site/ja/journal/grind-size/index.html b/beju-site/ja/journal/grind-size/index.html
@@ -82,7 +82,7 @@
 <aside id="drawer" role="dialog" aria-modal="true" aria-label="カート" hidden=""></aside>
 <div id="toast" role="status" hidden=""></div>
 
-<script src="/assets/app.11b4635bf5.js" defer></script>
+<script src="/assets/app.43b5589063.js" defer></script>
 
 
 </body></html>

diff --git a/beju-site/ja/journal/index.html b/beju-site/ja/journal/index.html
@@ -82,7 +82,7 @@
 <aside id="drawer" role="dialog" aria-modal="true" aria-label="カート" hidden=""></aside>
 <div id="toast" role="status" hidden=""></div>
 
-<script src="/assets/app.11b4635bf5.js" defer></script>
+<script src="/assets/app.43b5589063.js" defer></script>
 
 
 </body></html>

diff --git a/beju-site/ja/journal/storing-beans/index.html b/beju-site/ja/journal/storing-beans/index.html
@@ -82,7 +82,7 @@
 <aside id="drawer" role="dialog" aria-modal="true" aria-label="カート" hidden=""></aside>
 <div id="toast" role="status" hidden=""></div>
 
-<script src="/assets/app.11b4635bf5.js" defer></script>
+<script src="/assets/app.43b5589063.js" defer></script>
 
 
 </body></html>

diff --git a/beju-site/ja/journal/v60-recipe/index.html b/beju-site/ja/journal/v60-recipe/index.html
@@ -82,7 +82,7 @@
 <aside id="drawer" role="dialog" aria-modal="true" aria-label="カート" hidden=""></aside>
 <div id="toast" role="status" hidden=""></div>
 
-<script src="/assets/app.11b4635bf5.js" defer></script>
+<script src="/assets/app.43b5589063.js" defer></script>
 
 
 </body></html>
